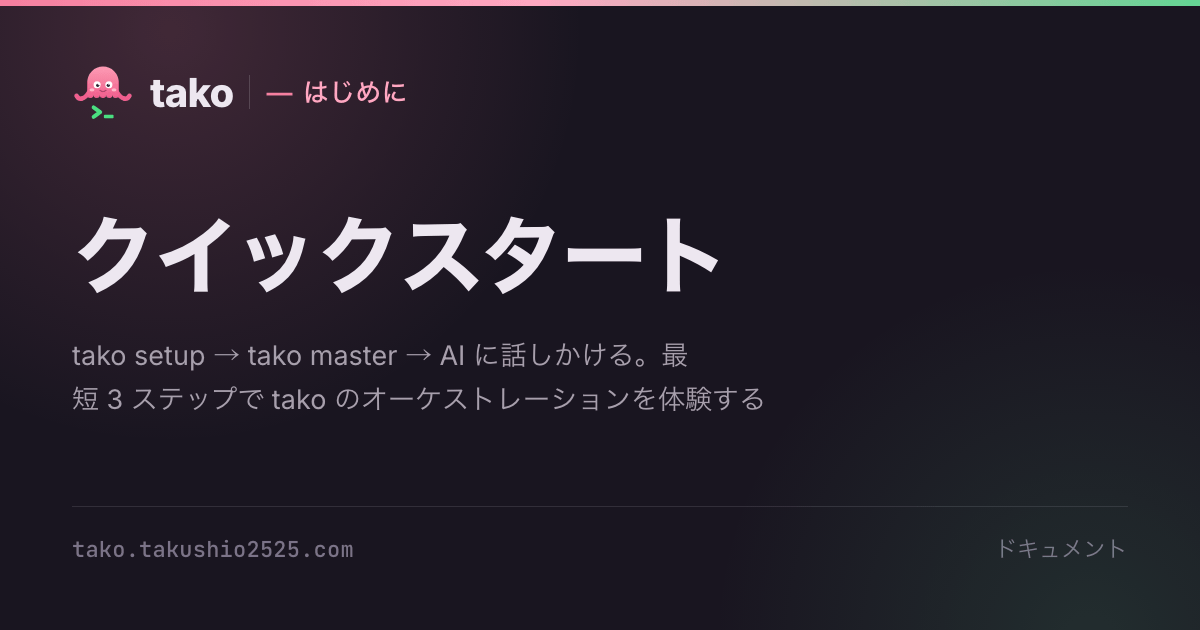
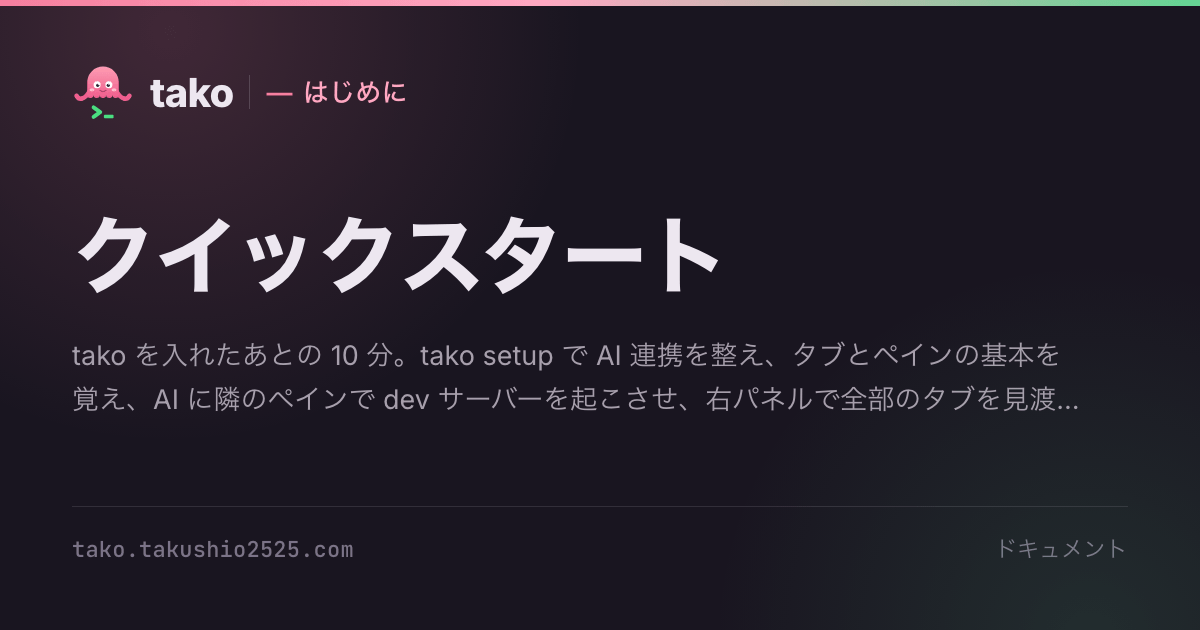
[ドキュメント] クイックスタートの場面を実画面どおりに直す: バナーの列・ログの重なり・fleet の縦積みと送り・ポインター位置・OG 画像 (#2056)
- setup: 狭い枠でバナーの説明とボタンの列が入れ替わるのを場面側で固定、ポインターは手順 1 だけ
- 下から積むログの行が縮んで重なるのを止める（flex-shrink: 0）
- fleet: 左のペインを縦積みにし、手順 3 で開いた枠が見えるところまでパネルを送る。手順 2 で失敗の枠に印
- ポインターの座標を実測（1440 / 375 で同じ位置）。Windows の注記を実測済みの範囲に絞る
- 説明文を変えたので OG 画像を焼き直し、progress.md に追記（context-budget fix で 1 件を archive へ）

Refs #2053

Claude-Session: https://claude.ai/code/session_01VNYnZimnM7egxM4kYEnXoc

Changed region(s): [[0.0617, 0.5429, 0.8942, 0.6635]]

diff --git a/docs/src/styles/quickstart.css b/docs/src/styles/quickstart.css
@@ -11,6 +11,10 @@
 	height: 100%;
 	overflow: hidden;
 }
+/* 行は縮ませない（縮むと折り返した行が次の行に重なる）。はみ出した古い行は上から切れる */
+.tk-qs-log > * {
+	flex-shrink: 0;
+}
 [data-motion] .tk-qs-log > [data-at] {
 	max-height: 4.8em;
 	overflow: hidden;
@@ -195,4 +199,23 @@
 		grid-template-columns: minmax(0, 1fr);
 		gap: var(--tako-space-2);
 	}
+}
+
+/* 初回バナー: 幅が狭くリンクの行が隠れても、説明は左・ボタンは右の列に置く
+ * （共有の WelcomeBanner は自動配置なので、リンクが消えると説明とボタンの列が入れ替わる） */
+.tk-qs-setup .tk-welcome > .tk-welcome-title,
+.tk-qs-setup .tk-welcome > .tk-welcome-line {
+	grid-column: 1;
+}
+.tk-qs-setup .tk-welcome > .tk-welcome-links,
+.tk-qs-setup .tk-welcome > .tk-ubtn {
+	grid-column: 2;
+}
+
+/* fleet: 手順 3 で開いた枠が見えるところまで、パネルの中身を送る（実物の右パネルは縦に送れる） */
+.tk-qs-fleet .tk-fleet {
+	transition: transform 0.6s var(--tako-ease);
+}
+[data-step='3'] .tk-qs-fleet .tk-fleet {
+	transform: translateY(calc(-1 * var(--qs-fleet-scroll, 10em)));
 }

diff --git a/.agent/progress.md b/.agent/progress.md
@@ -63,3 +63,6 @@
 ## 2026-10-14（#2032: issue1944_lsp_fetch の取得中の検査のフレーク = 状態と進捗は別々に変わるので、揃った 1 回の読みを状態待ちで捕まえる）
 - 真因: 製品は状態（取得中）と進捗（fetch のレジストリ）を別々に変えるので、進捗を置く前と、取り終えて進捗を消してから稼働へ移るまで（#1977 の片付けが走る）は「取得中なのに進捗が無い」。旧テストは各時点で両方を求めていた。配布元に最後の 4 KiB を止める `Serve::Held` を足し、status と画面の口をそれぞれ 1 回の読みで確かめる。注入 `TAKO_2032_INJECT_OLD_FILES=<n>`
 - 実測: 旧 + 前の版の段 500 ファイル 5/5 FAILED・旧 + 進捗を置く前に 200 ms 3/3 FAILED（どちらも CI と同じ assert）・新は同じ注入で 5/5 / 3/3 ok・画面に進捗を出さない壊し方で新が名指しで落ちる・新 20/20 ok
+## 2026-10-15（#2056: クイックスタートをスクロール連動のモーションで作り直した = setup・タブとペイン・隣で dev サーバー・fleet）
+- 4 場面: setup のバナー → [OK] → 残り N 件 → 再実行で素通り / 分割・移動・リサイズのキーを macOS と Windows で併記 / AI が同じタブに dev サーバー → ポートのチップ → 承諾で Web ビュー / fleet で全タブ → 行でジャンプ → AI に直させる。部品 Fleet・FleetTab・FleetRow・PortChip・KeyHint・Keys・KeyTable を新設、TakoWindow に panelAt・tabs[].states を足すだけ
+- 検証: build・og:verify・verify-links・verify-seo ほか緑、Playwright で 1440 / 375 × 明暗 × 動き / reduce の 44 手順を撮って横はみ出し 0
